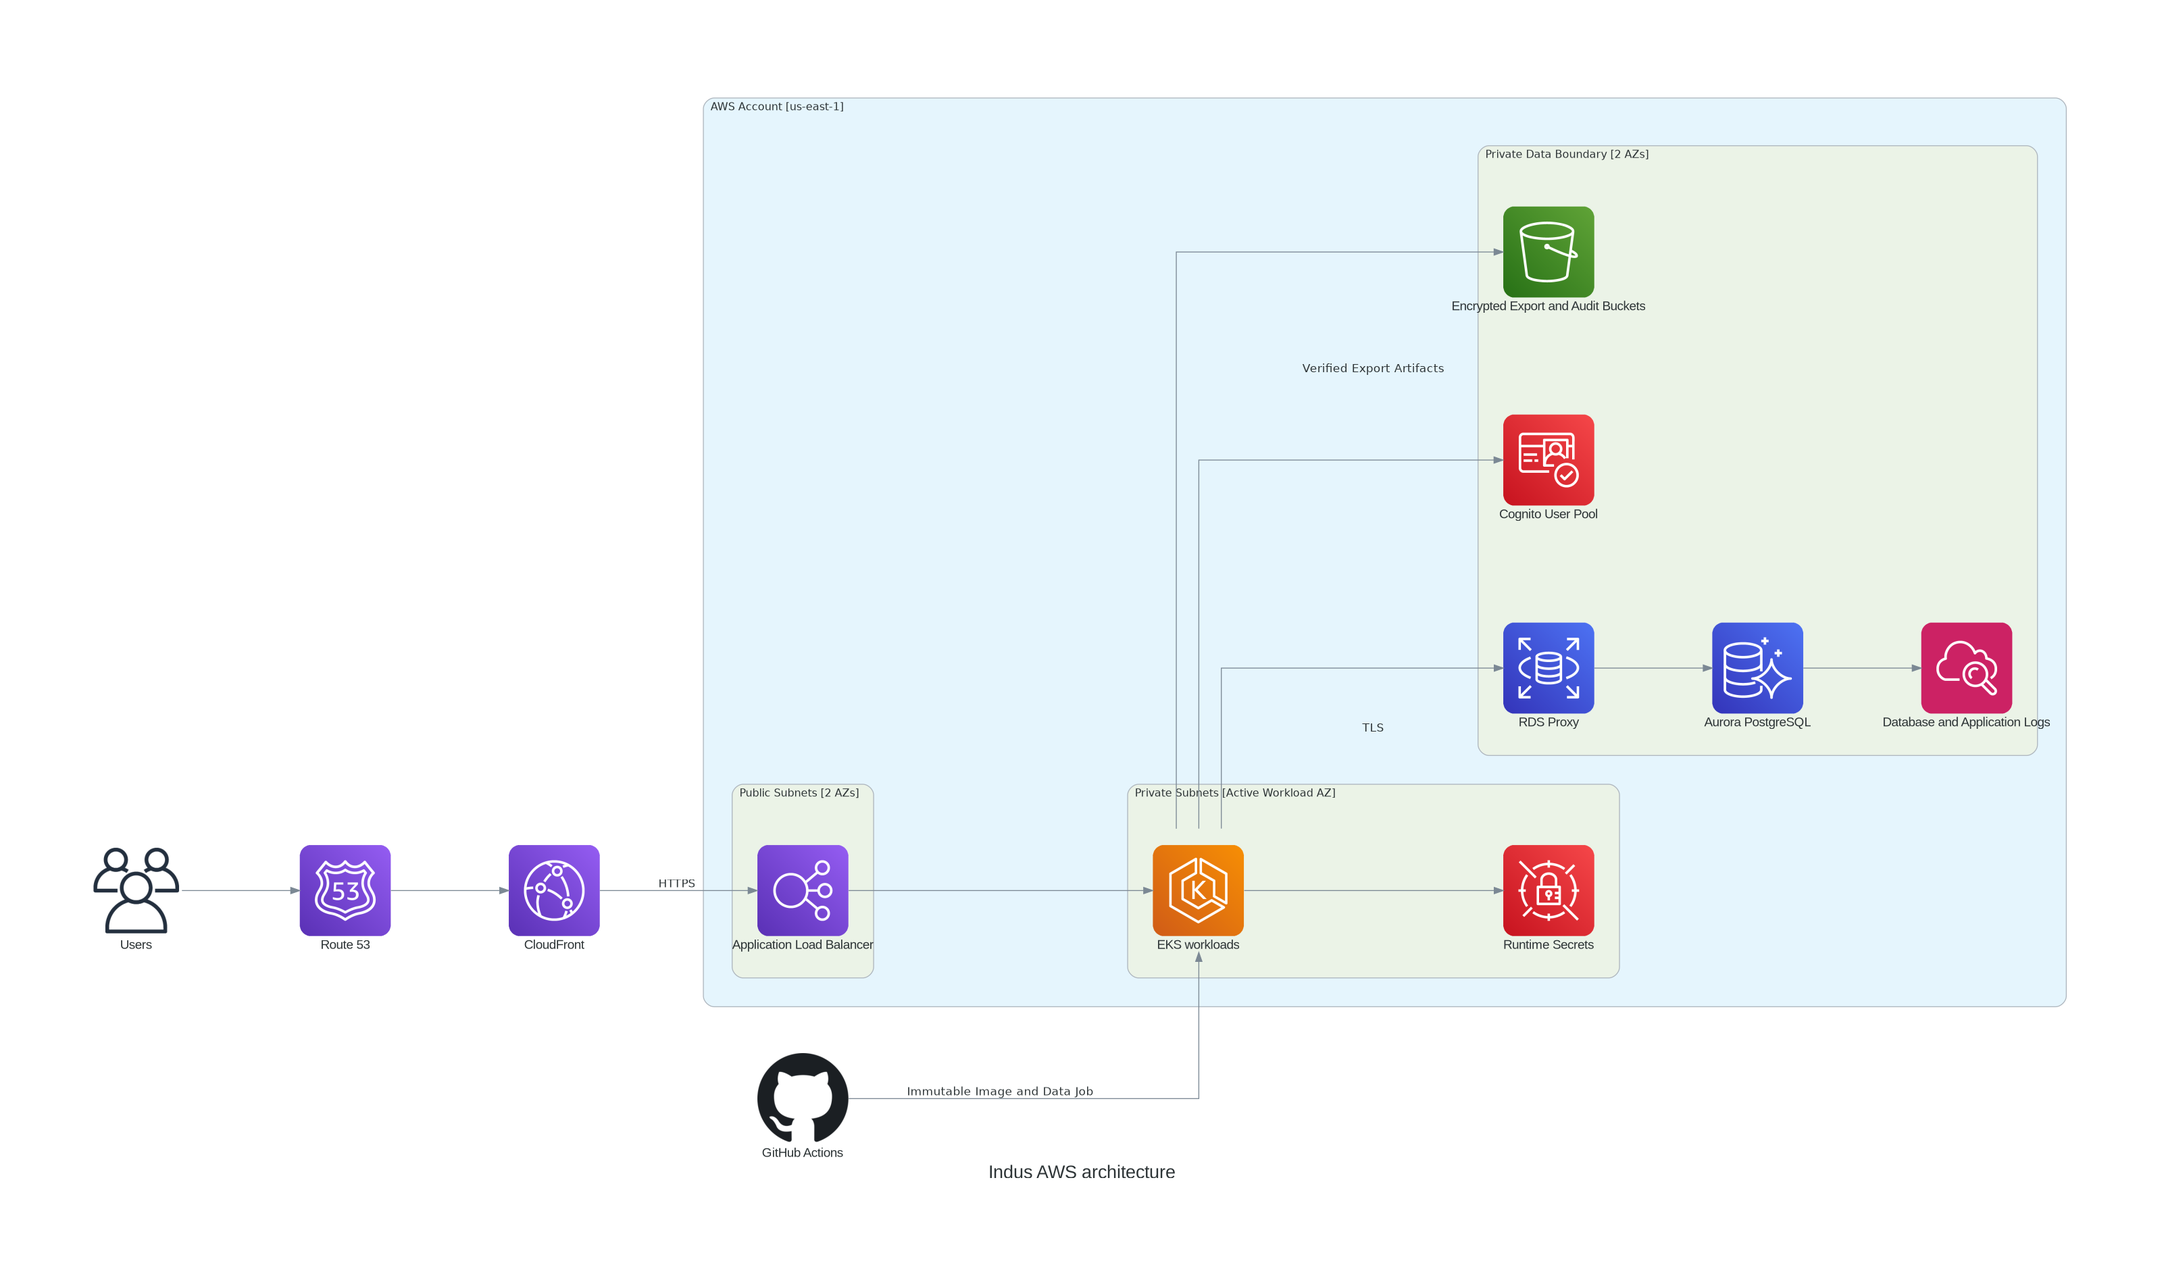
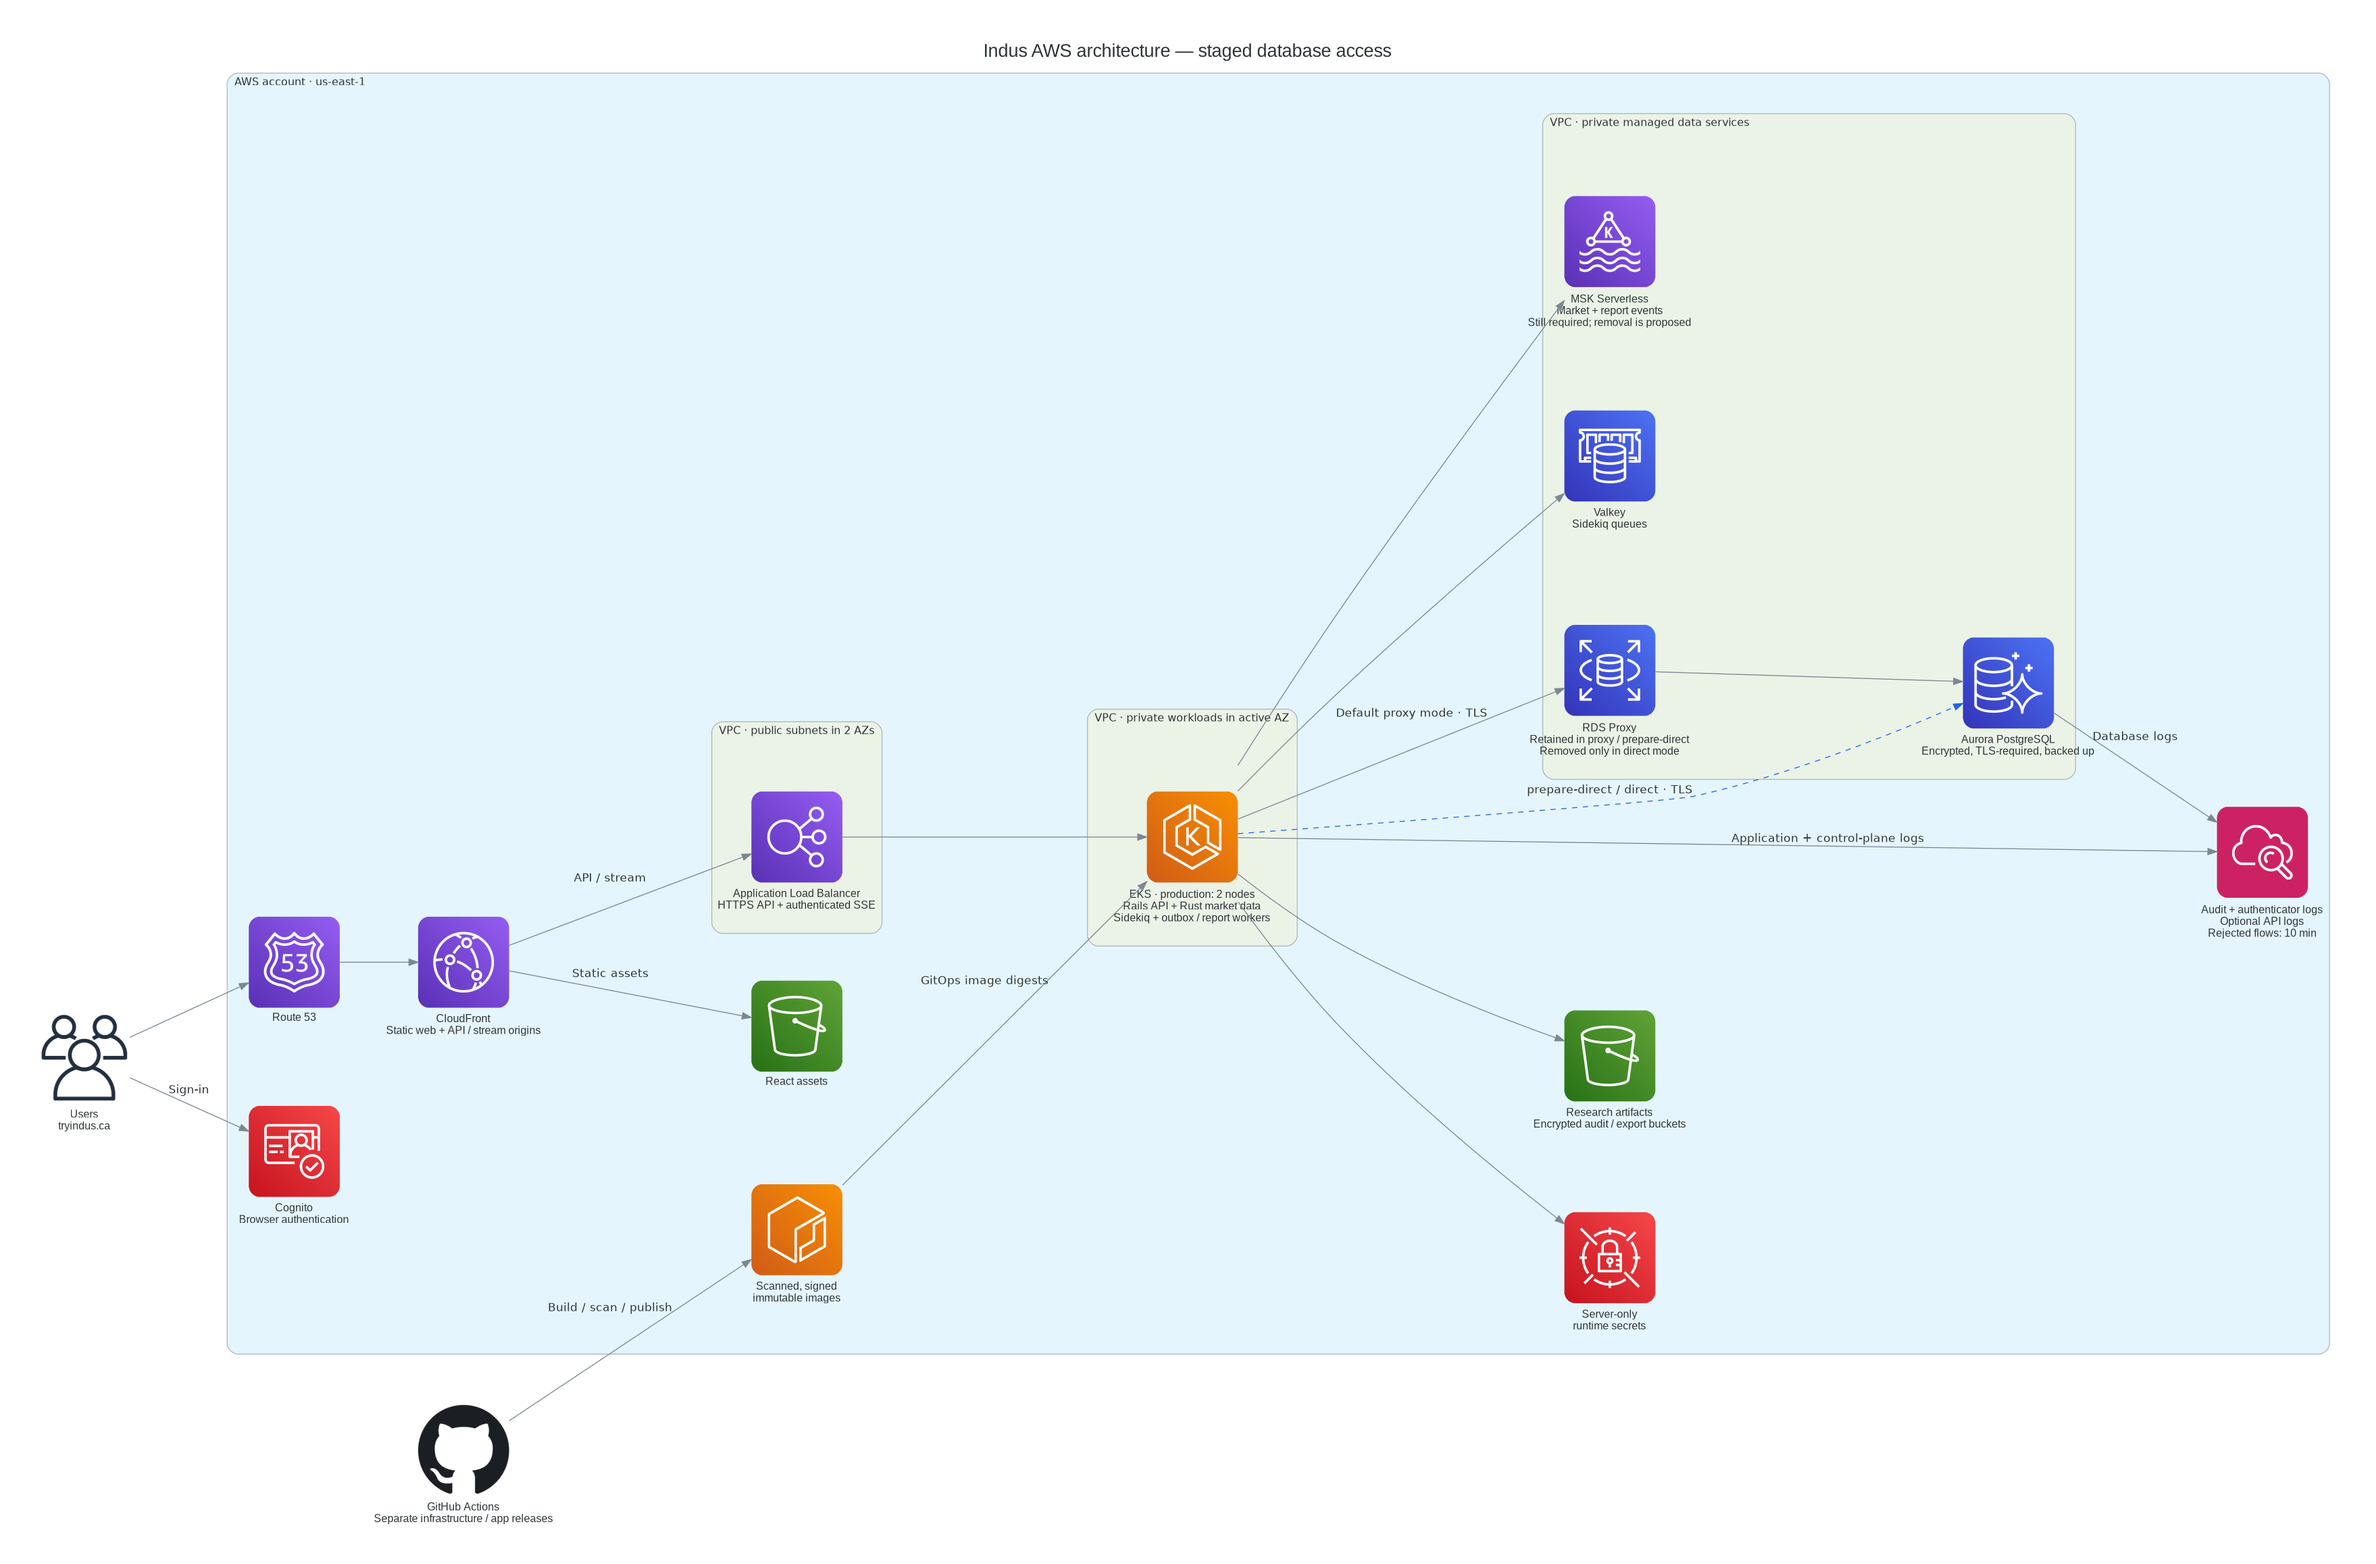
Update the AWS architecture diagram for staged database access

diff --git a/docs/architecture/aws-architecture.py b/docs/architecture/aws-architecture.py
@@ -1,6 +1,9 @@
+"""Render from the repository root with diagrams and Graphviz installed."""
+
 from diagrams import Cluster, Diagram, Edge
-from diagrams.aws.compute import EKS
-from diagrams.aws.database import Aurora, RDS
+from diagrams.aws.analytics import ManagedStreamingForKafka
+from diagrams.aws.compute import ECR, EKS
+from diagrams.aws.database import Aurora, ElastiCache, RDS
 from diagrams.aws.management import Cloudwatch
 from diagrams.aws.network import CloudFront, ELB, Route53
 from diagrams.aws.security import Cognito, SecretsManager
@@ -10,47 +13,60 @@ from diagrams.onprem.vcs import Github
 
 
 with Diagram(
-    "Indus AWS architecture",
+    "Indus AWS architecture — staged database access",
     filename="docs/architecture/aws-architecture",
     outformat="png",
     show=False,
     direction="LR",
     graph_attr={
-        "pad": "1.4",
-        "nodesep": "1.3",
-        "ranksep": "1.8",
-        "splines": "ortho",
+        "pad": "0.6",
+        "labelloc": "t",
+        "nodesep": "0.8",
+        "ranksep": "1.2",
+        "splines": "spline",
         "bgcolor": "white",
         "fontname": "Arial",
         "fontsize": "20",
     },
-    node_attr={"fontname": "Arial", "fontsize": "14"},
-    edge_attr={"fontname": "Arial", "fontsize": "12"},
+    node_attr={"fontname": "Arial", "fontsize": "12"},
+    edge_attr={"fontname": "Arial", "fontsize": "10"},
 ):
-    users = Users("Users")
-    github = Github("GitHub Actions")
-    route53 = Route53("Route 53")
-    cloudfront = CloudFront("CloudFront")
+    users = Users("Users\ntryindus.ca")
+    github = Github("GitHub Actions\nSeparate infrastructure / app releases")
 
-    with Cluster("AWS Account [us-east-1]", graph_attr={"margin": "32", "pad": "0.8"}):
-        with Cluster("Public Subnets [2 AZs]", graph_attr={"margin": "28", "pad": "0.6"}):
-            alb = ELB("Application Load Balancer")
+    with Cluster("AWS account · us-east-1", graph_attr={"margin": "24"}):
+        route53 = Route53("Route 53")
+        cloudfront = CloudFront("CloudFront\nStatic web + API / stream origins")
+        web = S3("React assets")
+        cognito = Cognito("Cognito\nBrowser authentication")
+        registry = ECR("Scanned, signed\nimmutable images")
+        secrets = SecretsManager("Server-only\nruntime secrets")
+        artifacts = S3("Research artifacts\nEncrypted audit / export buckets")
+        logs = Cloudwatch("Audit + authenticator logs\nOptional API logs\nRejected flows: 10 min")
 
-        with Cluster("Private Subnets [Active Workload AZ]", graph_attr={"margin": "28", "pad": "0.6"}):
-            eks = EKS("EKS workloads")
-            secrets = SecretsManager("Runtime Secrets")
+        with Cluster("VPC · public subnets in 2 AZs"):
+            alb = ELB("Application Load Balancer\nHTTPS API + authenticated SSE")
 
-        with Cluster("Private Data Boundary [2 AZs]", graph_attr={"margin": "28", "pad": "0.6"}):
-            aurora = Aurora("Aurora PostgreSQL")
-            proxy = RDS("RDS Proxy")
-            cognito = Cognito("Cognito User Pool")
-            exports = S3("Encrypted Export and Audit Buckets")
-            logs = Cloudwatch("Database and Application Logs")
+        with Cluster("VPC · private workloads in active AZ"):
+            eks = EKS("EKS · production: 2 nodes\nRails API + Rust market data\nSidekiq + outbox / report workers")
 
-    users >> route53 >> cloudfront >> Edge(label="HTTPS") >> alb >> eks
-    github >> Edge(label="Immutable Image and Data Job") >> eks
-    eks >> Edge(label="TLS") >> proxy >> aurora
+        with Cluster("VPC · private managed data services"):
+            proxy = RDS("RDS Proxy\nRetained in proxy / prepare-direct\nRemoved only in direct mode")
+            aurora = Aurora("Aurora PostgreSQL\nEncrypted, TLS-required, backed up")
+            cache = ElastiCache("Valkey\nSidekiq queues")
+            kafka = ManagedStreamingForKafka("MSK Serverless\nMarket + report events\nStill required; removal is proposed")
+
+    users >> route53 >> cloudfront
+    cloudfront >> Edge(label="Static assets") >> web
+    cloudfront >> Edge(label="API / stream") >> alb >> eks
+    users >> Edge(label="Sign-in") >> cognito
+    github >> Edge(label="Build / scan / publish") >> registry
+    registry >> Edge(label="GitOps image digests") >> eks
+    eks >> Edge(label="Default proxy mode · TLS") >> proxy >> aurora
+    eks >> Edge(label="prepare-direct / direct · TLS", style="dashed", color="#2563eb") >> aurora
     eks >> secrets
-    eks >> cognito
-    eks >> Edge(label="Verified Export Artifacts") >> exports
-    aurora >> logs
+    eks >> cache
+    eks >> kafka
+    eks >> artifacts
+    eks >> Edge(label="Application + control-plane logs") >> logs
+    aurora >> Edge(label="Database logs") >> logs

diff --git a/docs/architecture/application-platform.md b/docs/architecture/application-platform.md
@@ -50,3 +50,9 @@ For local recovery, stop the affected Compose profile and remove only disposable
 ## Database connectivity
 
 Aurora remains private and TLS-required. Terraform database access modes retain RDS Proxy by default, allow direct private connectivity to be prepared alongside it, and remove the proxy only after runtime-secret clients have moved. `DATABASE_URL` in Secrets Manager is authoritative; GitOps endpoint metadata does not rewrite runtime credentials. See [AWS cost reductions](../runbooks/aws-cost-reductions.md) for connection-capacity checks, deployment sequencing, and rollback.
+
+## AWS architecture diagram
+
+![AWS architecture and staged database access](aws-architecture.png)
+
+The [diagram source](aws-architecture.py) shows proxy mode as the default, direct access as a staged alternative, and Kafka as an existing dependency. Render from the repository root with Graphviz installed and `diagrams==0.25.1`: `python docs/architecture/aws-architecture.py`. The diagram describes supported modes, not evidence that a production cutover has completed.
